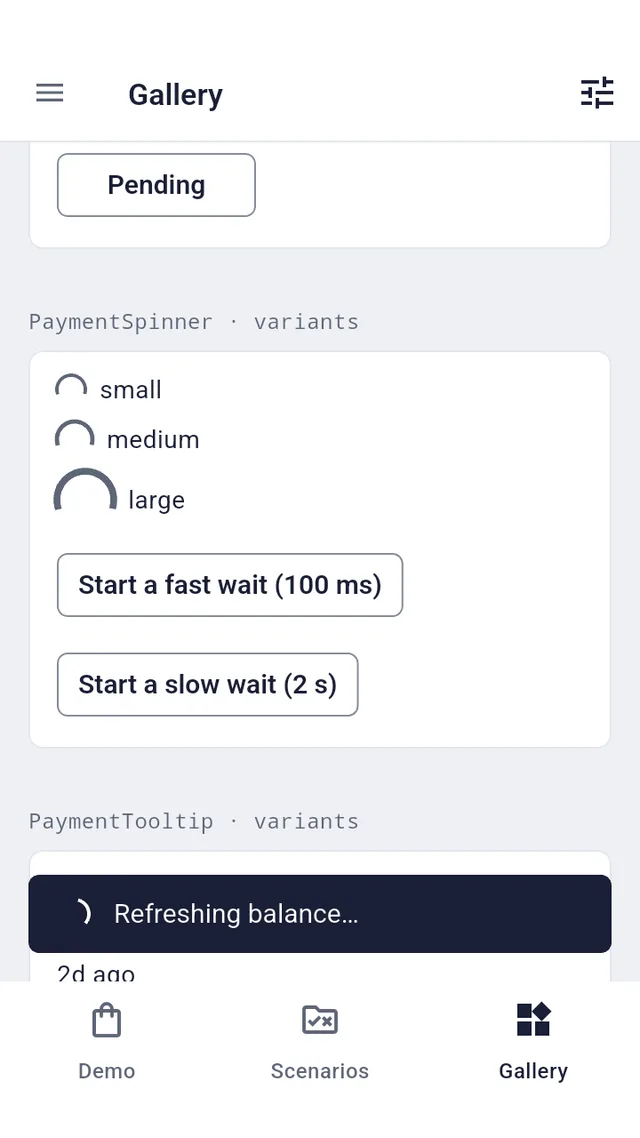
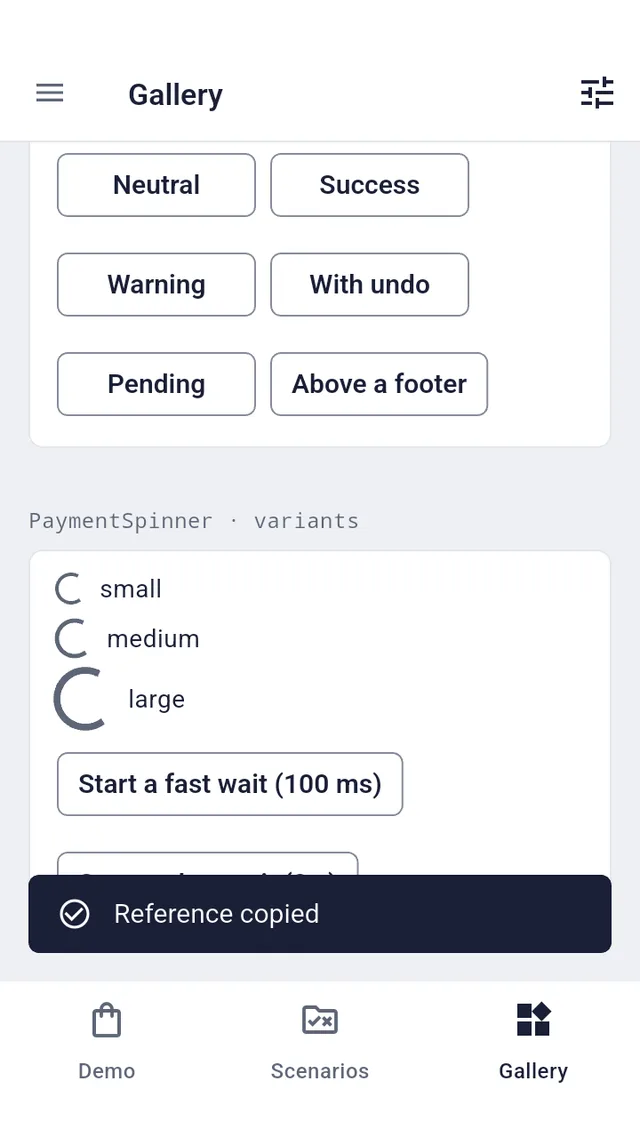
docs(toast): capture a settled success toast with every current control (#205)
The toast_variants capture tapped Pending, which swaps to success on a
1.2 s timer, so captures raced the swap. Capture the Success control
instead (stable key, production timers unchanged) and refresh the light,
dark and 200% captures so they include "Above a footer". Alt text now
matches the success state.

diff --git a/example/integration_test/catalog_screenshots_test.dart b/example/integration_test/catalog_screenshots_test.dart
@@ -402,7 +402,9 @@ void main() {
             'toast': (
               'Feedback',
               'showPaymentToast',
-              (_) => tapVisible(tester, find.byKey(const Key('toast-pending'))),
+              // A settled success toast. The pending demo swaps to success on
+              // a timer, so a capture of it races the swap.
+              (_) => tapVisible(tester, find.byKey(const Key('toast-success'))),
               () async {
                 clearSnackBars();
                 await settle(tester);

diff --git a/example/lib/screens/gallery_feedback.dart b/example/lib/screens/gallery_feedback.dart
@@ -166,6 +166,7 @@ class _ToastSpecimenState extends State<_ToastSpecimen> {
           ),
         ])
           PaymentButton(
+            key: Key('toast-${tone.name}'),
             label: label,
             size: PaymentSize.small,
             width: PaymentWidth.hug,
